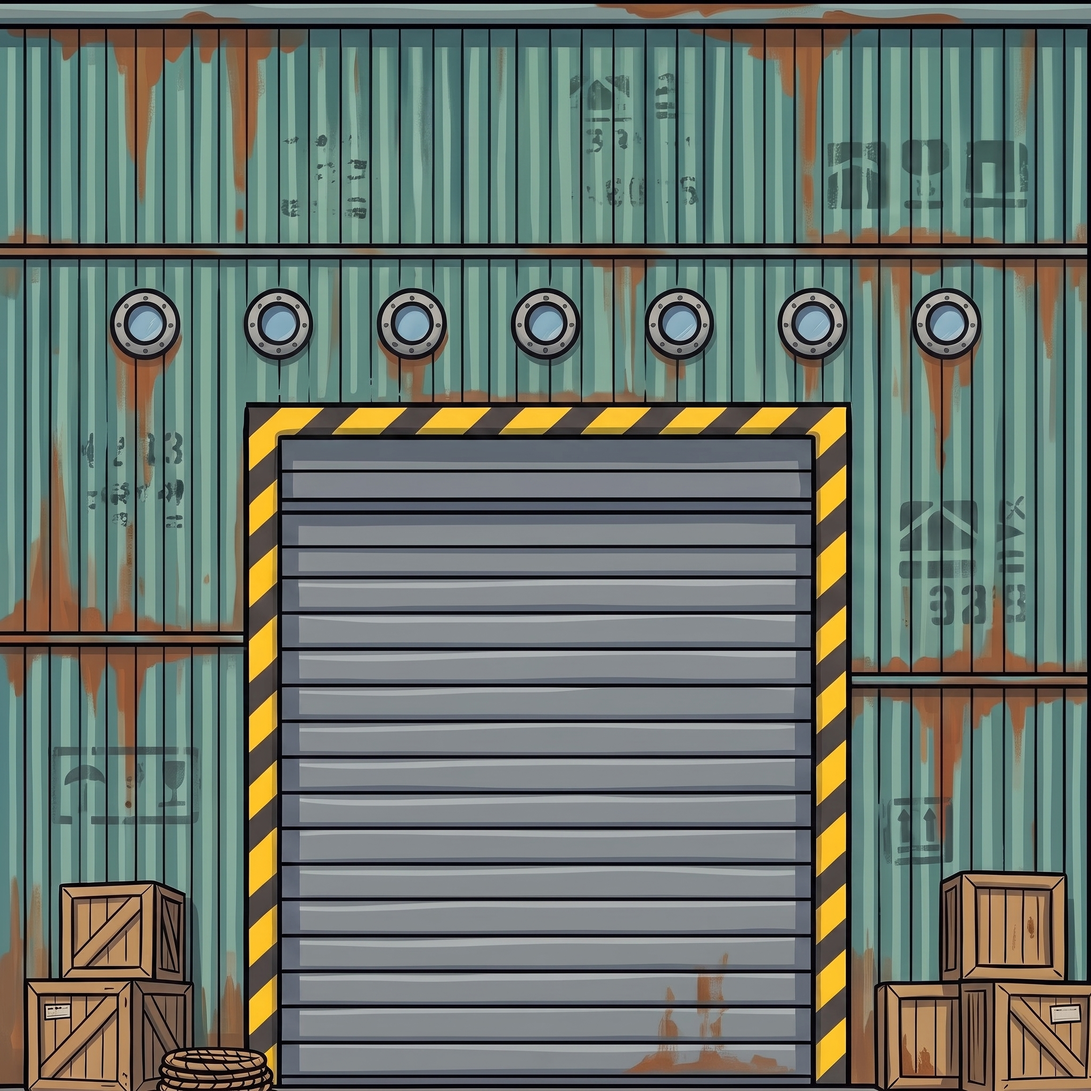
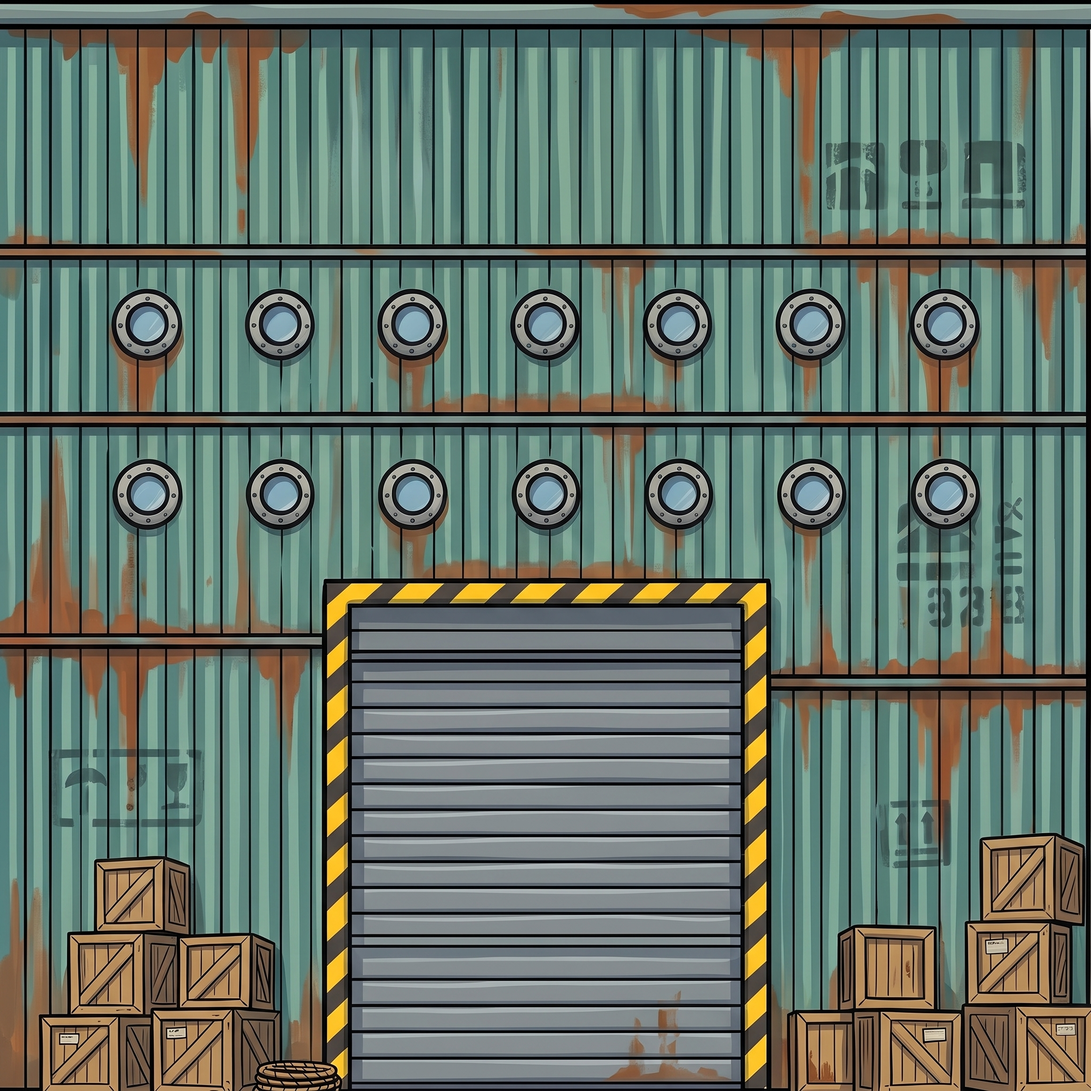
Half-scale harborDocks facades, space out obstacles/ramps/enemies
harborDocks: pass-2 scale fix -- pass 1 shrank only the small decorative
marks and left hero elements (door, portholes, shopfront, crates) at
single-building-portrait scale. Direct feedback: "all the details...
about half those sizes." Both facades redrawn pulled back to show
roughly twice as much building, every element roughly half its former
size and twice as numerous. Old pairs archived under art/final/alt/.

Gameplay: direct feedback asking for easier placement without touching
speed --
- OBSTACLE_SPAWN_INTERVAL_SEC 1.6 -> 1.9 (barricades further apart)
- new OBSTACLE_PLATFORM_CROSS_LANE_BUFFER: barricades skip spawning
  in another lane's active ramp window, so a jump decision and a lane
  decision don't land in the same instant (live spawns only, not the
  hand-tuned intro seeds)
- PLATFORM_SPAWN_INTERVAL_SEC 6 -> 7.5, and ramp lane selection now
  weighted away from the center lane (~20% instead of ~33%) -- "too
  much ramps mainly in the middle are making it harder to decide"

Also removes a leftover debug block in main.js from theme-swap
verification.

diff --git a/HalfShellHustle/src/data/spawnConfig.js b/HalfShellHustle/src/data/spawnConfig.js
@@ -73,7 +73,12 @@ export const OBSTACLE_FIRST_SPAWN_DELAY_SEC = 3; // grace period to read the sce
 // This is now the SETTLED rate, not the whole story: the ease-in dial at the
 // top of this file stretches it for the opening stretch of a run (x2.1 at the
 // very start, i.e. ~3.4s apart, easing to this value by 60s in).
-export const OBSTACLE_SPAWN_INTERVAL_SEC = 1.6;
+//
+// 1.6 -> 1.9, direct feedback: "space out mainly the blockers... especially
+// barcades closer to each other" -- makes the gameplay easier without
+// touching speed, which is exactly the ask (this dial is pure placement, see
+// EASE_IN_* above). ~19% more time between blockers at the settled rate.
+export const OBSTACLE_SPAWN_INTERVAL_SEC = 1.9;
 
 // DISABLED until further notice (direct feedback: "remove it completely,
 // we don't need it for now") -- entities/obstacles.js's resolveRandomType
@@ -143,7 +148,13 @@ export const MIN_ENEMY_OBSTACLE_GAP_SEC = 0.6; // -> ~6.0 world units at SPEED_S
 // seeded one, which is the cadence. Leaving this at 4 would have re-opened
 // the same 11.6s platform gap introSequence.js documents fighting.
 export const PLATFORM_FIRST_SPAWN_DELAY_SEC = 0;
-export const PLATFORM_SPAWN_INTERVAL_SEC = 6;
+// 6 -> 7.5, direct feedback: "too much ramps mainly in the middle are making
+// it harder for the player to make decisions so we need to space them out a
+// bit." Fewer ramps overall means fewer moments where a ramp decision and a
+// lane-dodge decision have to be made at once -- see also the CENTER_LANE
+// weighting in spawnPlatform's random-lane branch below, which targets the
+// "mainly in the middle" half of the same complaint directly.
+export const PLATFORM_SPAWN_INTERVAL_SEC = 7.5;
 
 // Minimum clear z between two platforms IN THE SAME LANE, on top of their own
 // 50-unit length. Enforced in entities/platform.js's spawnPlatform, which
@@ -193,6 +204,20 @@ export const PLATFORM_KILL_TYPE_CHANCE = 0.35;
 // it; 10 (~1.0s reaction room at SPEED_START, ~0.7s at SPEED_MAX) roughly matches
 // MIN_ENEMY_OBSTACLE_GAP_SEC's own reaction-time scale above.
 export const PLATFORM_FOOTPRINT_EXCLUSION_BUFFER = 10; // world units, each side
+
+// Direct feedback: barricades landing at the same z as an active ramp in a
+// NEIGHBORING lane force a ramp decision (jump or not) and a lane-dodge
+// decision into the same instant -- "especially barcades... closer to...
+// ramps." PLATFORM_FOOTPRINT_EXCLUSION_BUFFER above only keeps obstacles out
+// of a platform's OWN lane; this is a lighter CROSS-LANE check on top of it
+// (entities/obstacles.js's spawnObstacle), deliberately smaller than that one
+// -- that buffer has to guarantee zero visual overlap, this one only needs to
+// buy a beat of separation. LIVE spawns only (see spawnObstacle) -- NOT
+// applied to data/introSequence.js's seeds, which are hand-placed and
+// hand-checked against each other already (see that file's own comments);
+// running this same check against them would silently thin an
+// already-carefully-tuned list rather than just space out ordinary play.
+export const OBSTACLE_PLATFORM_CROSS_LANE_BUFFER = 6; // world units, each side
 
 // --- Enemies on platform decks (entities/enemy.js's spawnEnemy, entities/
 // platform.js's findDeckPlacements) -- direct feedback: enemies should

diff --git a/HalfShellHustle/src/entities/platform.js b/HalfShellHustle/src/entities/platform.js
@@ -22,7 +22,7 @@
 
 import * as THREE from 'three';
 import {
-  LANE_X, LANE_WIDTH, SPAWN_Z, DESPAWN_Z, PLAYER_Z, OBSTACLE_COLLISION_HALF_Z,
+  LANE_X, LANE_WIDTH, CENTER_LANE, SPAWN_Z, DESPAWN_Z, PLAYER_Z, OBSTACLE_COLLISION_HALF_Z,
 } from '../data/constants.js';
 import { PLATFORM_HEIGHT, PLATFORM_RAMP_LENGTH, PLATFORM_DECK_LENGTH } from '../data/platformSequence.js';
 import { PLATFORM_BOX_TEXTURE, PLATFORM_RAMP_TEXTURE } from '../data/envArt.js';
@@ -334,8 +334,21 @@ export function spawnPlatform(field, type, lane = null, z = SPAWN_Z) {
     if (!laneHasRoom(field, lane, type, z)) return;
     resolvedLane = lane;
   } else {
+    // Weighted candidate list, not a uniform shuffle -- direct feedback that
+    // ramps land "too much... in the middle" specifically, not just too
+    // often overall. Each edge lane gets 2 entries in the pool against
+    // CENTER_LANE's 1, so among 3 equally-open lanes the center is picked
+    // ~20% of the time instead of ~33%. A middle-lane ramp is the harder
+    // decision of the three (both side lanes are equally valid dodges,
+    // versus one clear direction from an edge), so cutting its frequency
+    // targets the decision-load complaint directly rather than just
+    // thinning ramps everywhere equally (see PLATFORM_SPAWN_INTERVAL_SEC in
+    // data/spawnConfig.js for that half of the same feedback).
     const lanes = [];
-    for (let i = 0; i < LANE_X.length; i++) lanes.push(i);
+    for (let i = 0; i < LANE_X.length; i++) {
+      lanes.push(i);
+      if (i !== CENTER_LANE) lanes.push(i);
+    }
     for (let i = lanes.length - 1; i > 0; i--) {
       const j = Math.floor(Math.random() * (i + 1));
       [lanes[i], lanes[j]] = [lanes[j], lanes[i]];
@@ -448,6 +461,22 @@ export function findOpenLane(field, z) {
   }
   if (open.length === 0) return null;
   return open[Math.floor(Math.random() * open.length)];
+}
+
+// CROSS-LANE check, unlike isPlatformFootprintBlocked above -- true if ANY
+// active platform in ANY lane has a span reaching within `buffer` of `z`, not
+// just the one obstacles.js is trying to spawn into. Used by
+// entities/obstacles.js's spawnObstacle (data/spawnConfig.js's
+// OBSTACLE_PLATFORM_CROSS_LANE_BUFFER) so a barricade doesn't land squarely
+// inside another lane's ramp-decision window -- see that constant's comment
+// for why this is a separate, lighter check from the same-lane one above,
+// and why it's opt-out for hand-placed seeds.
+export function isNearAnyActivePlatform(field, z, buffer) {
+  for (const slot of field.pool) {
+    if (!slot.active) continue;
+    if (z >= slot.entryStartZ - buffer && z <= slot.exitEndZ + buffer) return true;
+  }
+  return false;
 }
 
 // Direct feedback: enemies should actually stand on top of an elevated

diff --git a/HalfShellHustle/src/data/envArt.js b/HalfShellHustle/src/data/envArt.js
@@ -333,15 +333,22 @@ export const THEMES = {
   harborDocks: {
     street: envTexture('street_harbor.png', 1792, 2400),
     skyline: envTexture('skyline_harbor.png', 2752, 1265),
-    // SCALE FIX (direct feedback, playtested): "same problem, too many details
-    // that are too big" -- the stencil-style cargo markings and chalkboard/
-    // price-tag clutter were individually legible instead of reading as texture
-    // at a glance, the same category of miss the sticker-gate facade hit
-    // earlier. Fixed with a targeted edit (not a redo): both facades' small
-    // decorative marks redrawn smaller and far more numerous -- dozens of tiny
-    // faded stencils and scattered notes instead of a handful of big clear
-    // ones. Everything else pixel-identical. Original too-big pair archived at
-    // art/final/alt/facade_h1_v1_toobig.png / facade_h2_v1_toobig.png.
+    // SCALE FIX, PASS 2 (direct feedback, playtested twice): a first pass
+    // shrank the small decorative marks (stencils, notes) but left the HERO
+    // elements -- the roll-up door, all 7 portholes, the shopfront/chalkboard,
+    // the fish crates -- at single-building-portrait scale. Still read as "a
+    // handful of big clear things" rather than texture. Pass 2: "all the
+    // details... about half those sizes" -- both facades redrawn pulled back,
+    // showing roughly twice as much building (an extra wall band above h1's
+    // portholes, an extra floor above h2's balcony) with every element,
+    // including the door/portholes/shopfront/crates, roughly half its former
+    // size and twice as numerous (14 portholes not 7, 6 fish crates not 3).
+    // Not a redo -- same identity, palette, material language both times.
+    // Archived: art/final/alt/facade_h1_v1_toobig.png / facade_h2_v1_toobig.png
+    // (pre-pass-1) and facade_h1_v2_stilltoobig.png / facade_h2_v2_stilltoobig.png
+    // (pass 1, still too big). Pass 2 used the PASS-1-ORIGINAL (v1) crops as
+    // the edit reference, not the pass-1 output, per this project's own
+    // established rule against referencing an already-edited derivative.
     facades: [
       { tex: envTexture('facade_h1.png', 2048, 2048), bodyColor: 0x69746c }, // teal corrugated-metal cargo warehouse, roll-up door, portholes
       { tex: envTexture('facade_h2.png', 2048, 2048), bodyColor: 0x8b8884 }, // weathered clapboard harbor-master shack, lighthouse cupola, bait counter

diff --git a/HalfShellHustle/src/entities/obstacles.js b/HalfShellHustle/src/entities/obstacles.js
@@ -26,8 +26,10 @@ import { LANE_X, SPAWN_Z, DESPAWN_Z } from '../data/constants.js';
 import { getTexture } from './textureLoader.js';
 import { getShadowTexture } from './contactShadow.js';
 import { OBSTACLE_TYPES } from '../data/obstacleTypes.js';
-import { LOW_OBSTACLE_ENABLED, LOW_OBSTACLE_SPAWN_CHANCE } from '../data/spawnConfig.js';
-import { findOpenLane } from './platform.js';
+import {
+  LOW_OBSTACLE_ENABLED, LOW_OBSTACLE_SPAWN_CHANCE, OBSTACLE_PLATFORM_CROSS_LANE_BUFFER,
+} from '../data/spawnConfig.js';
+import { findOpenLane, isNearAnyActivePlatform } from './platform.js';
 
 // Sized with headroom above the theoretical concurrent-obstacle count. That
 // count is set by how long an entity LIVES -- (DESPAWN_Z - SPAWN_Z) / speed --
@@ -137,9 +139,21 @@ function resolveRandomType() {
 // still empty. Silently skips (no free lane, or no free pool slot) rather
 // than forcing a spawn -- the spawner's own timer just tries again next
 // interval, same as data/spawnConfig.js's MIN_ENEMY_OBSTACLE_GAP_SEC skip.
-export function spawnObstacle(field, platformField, typeKey = null, z = SPAWN_Z) {
+//
+// `enforceCrossLanePlatformGap` defaults ON for ordinary live spawns --
+// data/spawnConfig.js's OBSTACLE_PLATFORM_CROSS_LANE_BUFFER, direct feedback
+// against barricades landing right next to a ramp in another lane. main.js
+// passes false for data/introSequence.js's seeds: those are hand-placed and
+// hand-checked against each other already, and running this check against
+// them would silently thin an already-carefully-tuned list instead of just
+// spacing out ordinary play.
+export function spawnObstacle(
+  field, platformField, typeKey = null, z = SPAWN_Z, enforceCrossLanePlatformGap = true,
+) {
   const slot = field.pool.find((s) => !s.active);
   if (!slot) return;
+  if (enforceCrossLanePlatformGap
+    && isNearAnyActivePlatform(platformField, z, OBSTACLE_PLATFORM_CROSS_LANE_BUFFER)) return;
   const lane = findOpenLane(platformField, z);
   if (lane === null) return;
   const key = typeKey || resolveRandomType();

diff --git a/HalfShellHustle/src/core/main.js b/HalfShellHustle/src/core/main.js
@@ -283,7 +283,9 @@ function boot() {
     }
     for (const t of obstacles) {
       const z = seedZ(t);
-      if (z !== null) spawnObstacle(obstacleField, platformField, null, z);
+      // false: skip the cross-lane platform gap check for seeds -- see
+      // entities/obstacles.js's spawnObstacle for why.
+      if (z !== null) spawnObstacle(obstacleField, platformField, null, z, false);
     }
     for (const t of enemies) {
       const z = seedZ(t);
